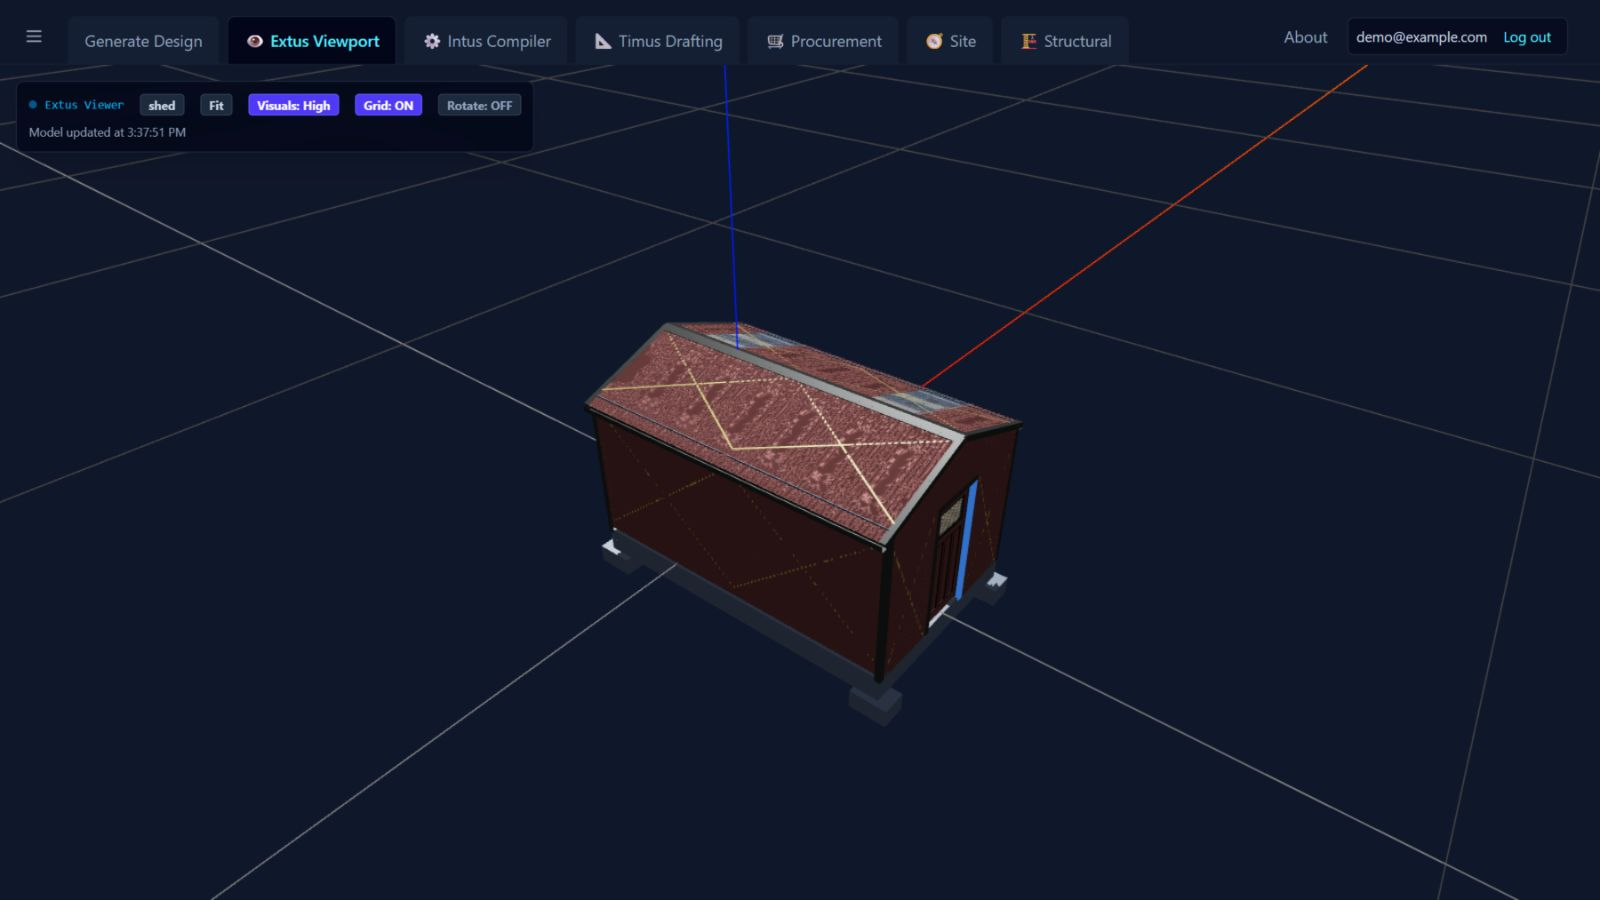
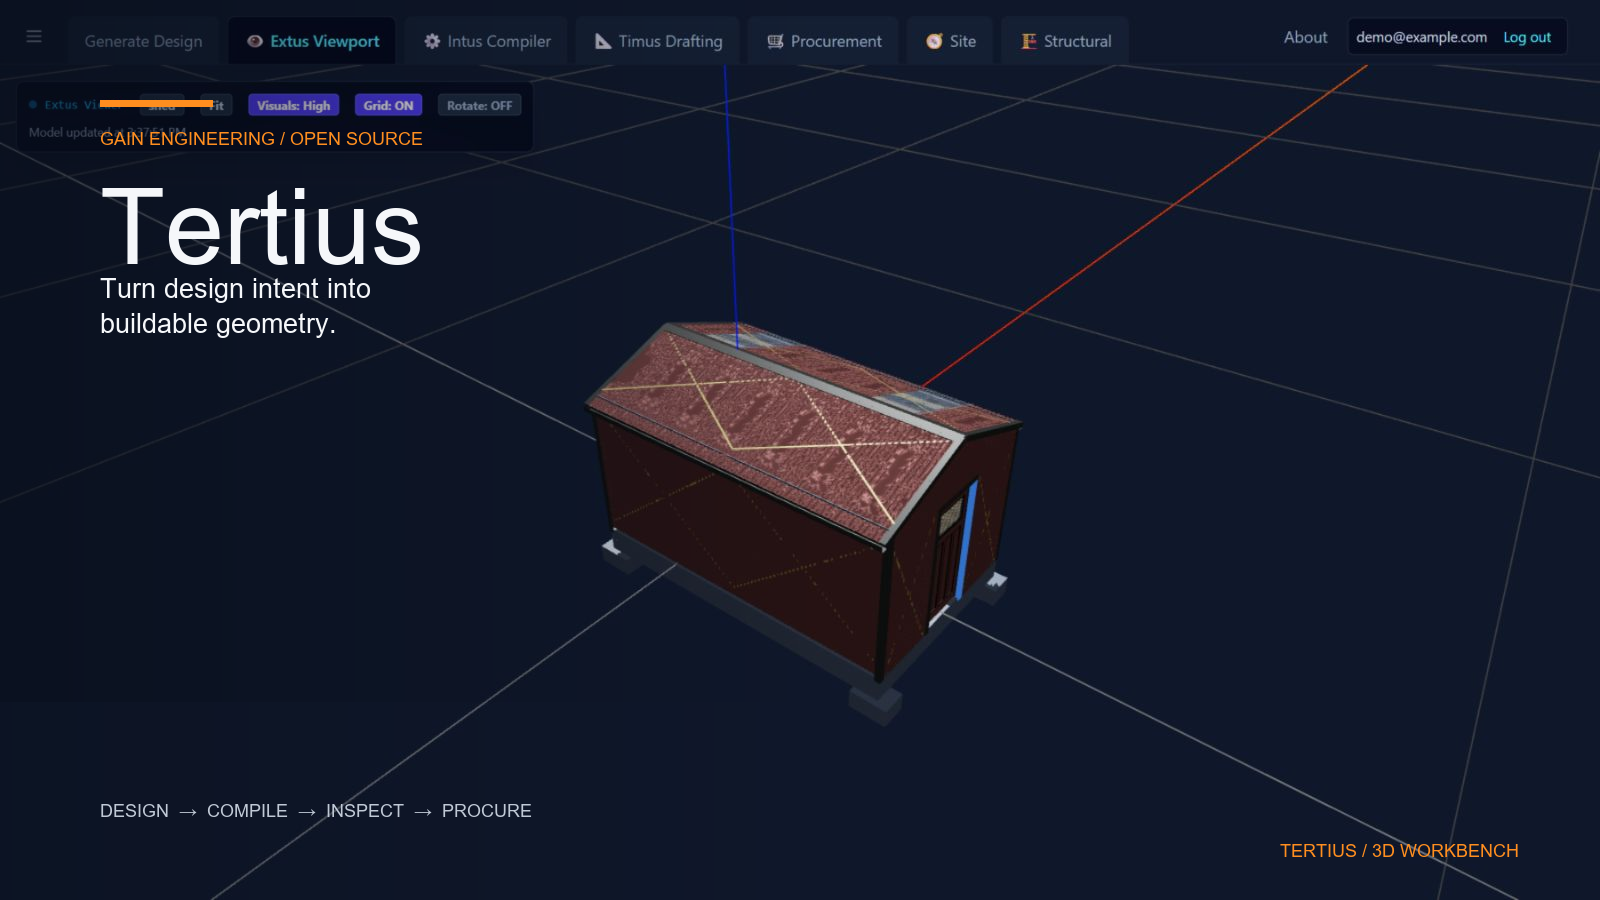
Add video demos and compose a branded README hero

diff --git a/scripts/compose-readme-hero.py b/scripts/compose-readme-hero.py
@@ -1,0 +1,73 @@
+"""Compose a README hero from a real product capture and editorial overlays.
+
+Pillow is used only for deterministic layout; the source screenshot remains the
+visual focus. The font is passed in at capture time so licensed brand fonts do
+not need to be redistributed with the repository.
+"""
+
+from __future__ import annotations
+
+import argparse
+from pathlib import Path
+
+from PIL import Image, ImageDraw, ImageFont
+
+
+def load_font(path: Path | None, size: int) -> ImageFont.FreeTypeFont | ImageFont.ImageFont:
+    if path and path.exists():
+        return ImageFont.truetype(str(path), size=size)
+    for fallback in ("C:/Windows/Fonts/arial.ttf", "/usr/share/fonts/truetype/dejavu/DejaVuSans.ttf"):
+        if Path(fallback).exists():
+            return ImageFont.truetype(fallback, size=size)
+    return ImageFont.load_default()
+
+
+def compose(source: Path, destination: Path, brand_font: Path | None) -> None:
+    image = Image.open(source).convert("RGBA")
+    width, height = image.size
+
+    overlay = Image.new("RGBA", image.size, (0, 0, 0, 0))
+    pixels = overlay.load()
+    for x in range(width):
+        strength = int(218 * max(0.0, 1.0 - x / (width * 0.52)))
+        for y in range(height):
+            vertical = 0.72 if y < height * 0.78 else 0.42
+            pixels[x, y] = (7, 13, 25, int(strength * vertical))
+    image = Image.alpha_composite(image, overlay)
+
+    draw = ImageDraw.Draw(image)
+    brand = load_font(brand_font, max(72, width // 15))
+    sans = load_font(None, max(20, width // 58))
+    mono = load_font(None, max(15, width // 86))
+
+    margin_x = width // 16
+    top = height // 7
+    orange = (255, 142, 31, 255)
+    white = (245, 247, 250, 255)
+    muted = (192, 201, 214, 255)
+
+    draw.rectangle((margin_x, top - 28, margin_x + 112, top - 22), fill=orange)
+    draw.text((margin_x, top), "GAIN ENGINEERING / OPEN SOURCE", font=mono, fill=orange)
+    draw.text((margin_x, top + 40), "Tertius", font=brand, fill=white)
+    draw.text((margin_x, top + 145), "Turn design intent into", font=sans, fill=white)
+    draw.text((margin_x, top + 180), "buildable geometry.", font=sans, fill=white)
+
+    footer_y = height - height // 9
+    draw.text((margin_x, footer_y), "DESIGN  →  COMPILE  →  INSPECT  →  PROCURE", font=mono, fill=muted)
+    draw.text((width - margin_x - 220, height - height // 15), "TERTIUS / 3D WORKBENCH", font=mono, fill=orange)
+
+    destination.parent.mkdir(parents=True, exist_ok=True)
+    image.convert("RGB").save(destination, format="PNG", optimize=True)
+
+
+def main() -> None:
+    parser = argparse.ArgumentParser(description=__doc__)
+    parser.add_argument("--input", type=Path, required=True)
+    parser.add_argument("--output", type=Path, required=True)
+    parser.add_argument("--font", type=Path, help="Optional licensed brand font used for the wordmark")
+    args = parser.parse_args()
+    compose(args.input, args.output, args.font)
+
+
+if __name__ == "__main__":
+    main()

diff --git a/assets/README.md b/assets/README.md
@@ -11,9 +11,11 @@ The final hero should be a staged, authenticated Tertius session at a 16:9 aspec
 - Keep the compiled model prominent in the shared Extus viewport.
 - Include enough application navigation to identify the integrated workbench.
 - Exclude browser chrome, credentials, tenant identifiers, provider details, prompts containing private information, and transient error states.
-- Do not bake marketing copy into the bitmap; the README provides the title and description.
+- Keep any overlay copy restrained and factual; the README remains the source of truth for the full product description.
 
 Capture at 1600 × 900 or larger and export the final optimized image as `hero-product.webp` or `hero-product.png`. The current `hero-product.png` is a real authenticated Extus session captured after the shed model finished loading.
+
+The checked-in hero uses a deterministic Pillow composition in [`scripts/compose-readme-hero.py`](../scripts/compose-readme-hero.py): a real Extus capture, a restrained gradient for contrast, and a small amount of editorial type. This keeps the process open-source and repeatable without requiring a design application. A licensed brand font can be supplied at capture time with `--font`; the font itself does not need to be redistributed.
 
 ## Supporting views
 

diff --git a/README.md b/README.md
@@ -13,6 +13,16 @@
 
 Tertius combines conversational design, Python-based parametric modelling, asynchronous CAD compilation, 3D inspection, visual bills of materials, supplier quote exports, and drawing generation in one browser-based workspace. Build123D source remains editable throughout the workflow rather than being hidden behind a generated model.
 
+## Watch Tertius in action
+
+<table>
+  <tr>
+    <td align="center"><a href="https://youtu.be/_rCYJJal89w"><img src="https://img.youtube.com/vi/_rCYJJal89w/maxresdefault.jpg" alt="Design a garden shed with AI" width="100%" /></a><br /><strong>Design a garden shed with AI</strong></td>
+    <td align="center"><a href="https://youtu.be/XHYL_hoQHuY"><img src="https://img.youtube.com/vi/XHYL_hoQHuY/maxresdefault.jpg" alt="Add windows and doors with AI" width="100%" /></a><br /><strong>Add windows and doors with AI</strong></td>
+    <td align="center"><a href="https://youtu.be/mIWmUKyoQxY"><img src="https://img.youtube.com/vi/mIWmUKyoQxY/maxresdefault.jpg" alt="Turn an idea into a 3D part" width="100%" /></a><br /><strong>Turn an idea into a 3D part</strong></td>
+  </tr>
+</table>
+
 ## Capabilities
 
 - **Design with context:** create and refine a project through a persistent Generate Design conversation.
